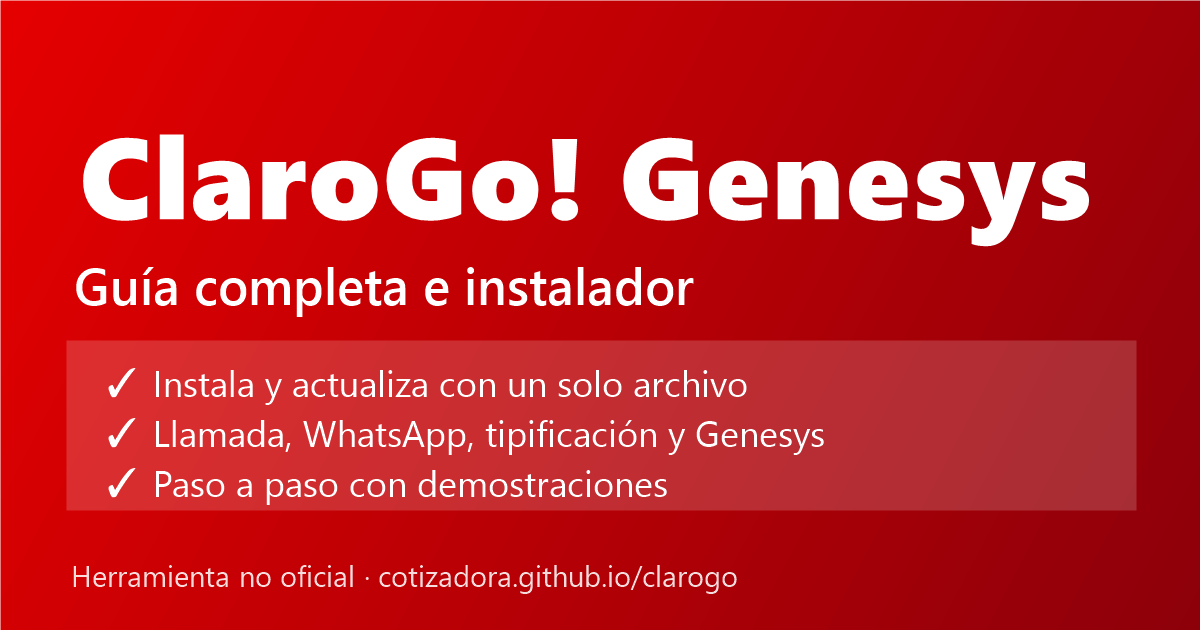
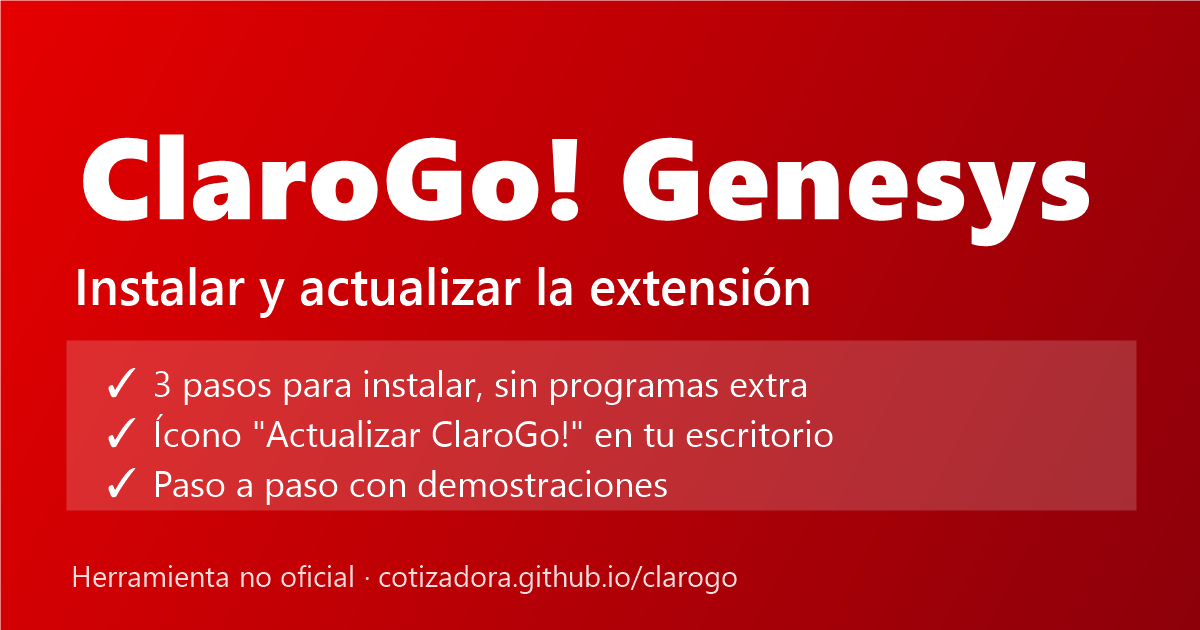
Guia solo de instalacion y actualizacion; instalador con acceso directo en el escritorio

Changed region(s): [[0.0617, 0.4222, 0.6783, 0.5127], [0.1233, 0.6635, 0.7092, 0.7238], [0.1233, 0.573, 0.6783, 0.6333]]

diff --git a/ext/guia.html b/ext/guia.html
@@ -4,10 +4,10 @@
 <meta charset="utf-8">
 <meta name="viewport" content="width=device-width, initial-scale=1">
 <title>Guía ClaroGo! Genesys</title>
-<meta name="description" content="Instala ClaroGo! Genesys con un solo archivo y aprende a usarla paso a paso: llamada, WhatsApp, tipificación y Genesys. Herramienta no oficial.">
+<meta name="description" content="Instala y actualiza la extensión ClaroGo! Genesys paso a paso. Herramienta no oficial.">
 <meta property="og:type" content="website">
-<meta property="og:title" content="ClaroGo! Genesys · Guía completa e instalador">
-<meta property="og:description" content="Descarga el instalador, sigue 3 pasos y aprende a usar la extensión con demostraciones. Herramienta no oficial.">
+<meta property="og:title" content="ClaroGo! Genesys · Instalar y actualizar">
+<meta property="og:description" content="3 pasos para instalar y un doble clic para actualizar. Herramienta no oficial.">
 <meta property="og:image" content="https://cotizadora.github.io/clarogo/ext/guia-preview.png">
 <meta property="og:image:width" content="1200">
 <meta property="og:image:height" content="630">
@@ -174,43 +174,55 @@
 
 <header class="hero">
   <h1>ClaroGo! Genesys</h1>
-  <p>La extensión que toma los datos de la llamada, los manda a tu planilla, abre WhatsApp con la oferta y tipifica la no venta en el formulario y en Genesys. Todo en un par de clics.</p>
+  <p>Instala la extensión en 5 minutos. Sigue los pasos con calma: no necesitas saber de computación.</p>
   <span class="ver" id="version">Versión al día</span>
   <div class="cta">
-    <a class="btn btn-blanco" href="#instalar">⬇ Instalar en 3 pasos</a>
-    <button class="btn btn-borde" type="button" data-copiar="cmd-inst">📋 Copiar comando de instalación</button>
+    <a class="btn btn-blanco" href="#instalar">⬇ Instalar</a>
+    <a class="btn btn-borde" href="#actualizar">🔄 Actualizar</a>
   </div>
-  <p class="nota-hero">Gratis · sin tiendas · se actualiza con el mismo archivo · Herramienta no oficial, hecha por Eduardo Pérez</p>
+  <p class="nota-hero">Gratis · no instala programas · Herramienta no oficial, hecha por Eduardo Pérez</p>
 </header>
-
-<nav class="indice"><div>
-  <a href="#instalar">1. Instalar</a><a href="#actualizar">2. Actualizar</a><a href="#usar">3. Usarla</a><a href="#funciones">4. Funciones</a><a href="#problemas">5. Problemas</a><a href="#claude">6. Claude Code</a>
-</div></nav>
 
 <main>
 
   <section id="instalar">
-    <h2><span class="ico">⬇</span>1. Instalar en 3 pasos</h2>
-    <p class="sub">Solo la primera vez. No necesitas descargar archivos, descomprimir nada ni instalar otros programas.</p>
-    <div class="copiar"><code id="cmd-inst">$d=&quot;$env:USERPROFILE\Documents\ClaroGo\extension&quot;; $b=&quot;https://cotizadora.github.io/clarogo&quot;; New-Item -ItemType Directory -Force $d | Out-Null; $l = (Invoke-RestMethod &quot;$b/ext/extension-archivos.txt?v=$(Get-Random)&quot;) -split &#39;\r?\n&#39; | Where-Object { $_ }; foreach ($f in $l) { Invoke-WebRequest &quot;$b/extension/$($f)?v=$(Get-Random)&quot; -OutFile &quot;$d\$f&quot; -UseBasicParsing }; Set-Clipboard $d; Write-Host &quot;ClaroGo!: $($l.Count) archivos listos en $d (ruta copiada)&quot; -ForegroundColor Green; Start-Process msedge edge://extensions</code><button type="button" data-copiar="cmd-inst">Copiar</button></div>
-    <div class="pasos3">
-      <div class="paso"><span class="n">1</span><b>Pega el comando en la Terminal</b><p>Copia el comando de arriba. Haz <b>clic derecho en el botón Inicio</b> de Windows, elige <b>Terminal</b> (o Windows PowerShell), pégalo con <kbd>Ctrl</kbd>+<kbd>V</kbd> y presiona <kbd>Enter</kbd>. Crea <code>Documentos\ClaroGo\extension</code> y baja todos los archivos.</p></div>
-      <div class="paso"><span class="n">2</span><b>Activa el modo para desarrolladores</b><p>Se abre <b>edge://extensions</b>. Activa <b>"Modo para desarrolladores"</b>, abajo a la izquierda.</p></div>
-      <div class="paso"><span class="n">3</span><b>Carga la carpeta</b><p>Presiona <b>"Cargar desempaquetada"</b>, pega la ruta con <kbd>Ctrl</kbd>+<kbd>V</kbd> (el instalador ya la copió) y elige <b>Seleccionar carpeta</b>.</p></div>
-    </div>
+    <h2><span class="ico">⬇</span>Instalar (solo la primera vez)</h2>
+    <p class="sub">Son 3 pasos. Hazlos en el computador donde usas Genesys.</p>
+
+    <h3>Paso 1 · Copia esta línea</h3>
+    <div class="copiar"><code id="cmd-inst">irm https://cotizadora.github.io/clarogo/ext/instalar.ps1 | iex</code><button type="button" data-copiar="cmd-inst">📋 Copiar</button></div>
+
+    <h3>Paso 2 · Pégala en la Terminal</h3>
+    <ol>
+      <li>Haz <b>clic derecho</b> en el botón <b>Inicio</b> de Windows (el logo de abajo a la izquierda).</li>
+      <li>Elige <b>Terminal</b> (en algunos equipos dice <b>Windows PowerShell</b>).</li>
+      <li>En la ventana negra, pega con <kbd>Ctrl</kbd> + <kbd>V</kbd> y presiona <kbd>Enter</kbd>.</li>
+      <li>Espera a que diga <b>LISTO</b>. Se abre sola la página de extensiones de Edge.</li>
+    </ol>
+
+    <h3>Paso 3 · Activa la extensión en Edge</h3>
+    <ol>
+      <li>Abajo a la izquierda, activa <b>"Modo para desarrolladores"</b>.</li>
+      <li>Arriba, presiona <b>"Cargar desempaquetada"</b>.</li>
+      <li>En la ventana que se abre, presiona <kbd>Ctrl</kbd> + <kbd>V</kbd> (la ruta ya está copiada), luego <kbd>Enter</kbd> y <b>"Seleccionar carpeta"</b>.</li>
+      <li>Haz clic en la pieza de rompecabezas de Edge y presiona el alfiler junto a <b>ClaroGo! Genesys</b> para dejar el ícono rojo a la vista.</li>
+    </ol>
 
     <div class="demo" data-demo>
       <div class="demo-pantalla">
-        <div class="escena" data-txt="Paso 1: pega el comando en la Terminal y presiona Enter">
-          <div class="cmd"><div class="tit">Terminal · Windows PowerShell</div><pre class="escribe"><span>PS C:\Users\tu-usuario&gt; $d="$env:USERPROFILE\Documents\ClaroGo\extension"; $b=...
-</span><span style="animation-delay:.8s">  (descargando los archivos de la extensión...)
-</span><span class="ok" style="animation-delay:2s">ClaroGo!: 11 archivos listos en C:\Users\tu-usuario\Documents\ClaroGo\extension (ruta copiada)
-</span><span class="t" style="animation-delay:2.6s">  Se abre edge://extensions</span></pre></div>
+        <div class="escena" data-txt="Paso 2: pega la línea en la Terminal y presiona Enter">
+          <div class="cmd"><div class="tit">Terminal · Windows PowerShell</div><pre class="escribe"><span>PS C:\Users\tu-usuario&gt; irm https://cotizadora.github.io/clarogo/ext/instalar.ps1 | iex
+</span><span style="animation-delay:.7s">  Se creo el acceso directo "Actualizar ClaroGo!" en tu escritorio.
+  Descargando la version mas nueva...
+</span><span class="ok" style="animation-delay:1.4s">   OK  manifest.json
+   OK  popup.html
+   OK  popup.js
+</span><span class="t" style="animation-delay:2.2s">  LISTO: version descargada.</span></pre></div>
         </div>
-        <div class="escena" data-txt="Paso 2: en edge://extensions activa Modo para desarrolladores">
+        <div class="escena" data-txt="Paso 3: activa Modo para desarrolladores">
           <div class="edge"><div class="url"><span>edge://extensions</span></div><div class="cuerpo">
             <div class="lado">Extensiones<br><br>Extensiones instaladas<br>Mantener a salvo<div class="dev"><span class="sw prende brilla"></span> Modo para desarrolladores</div></div>
-            <div class="der"><div class="barra-dev" style="opacity:.35"><span>Cargar desempaquetada</span><span>Empaquetar</span><span>Actualizar</span></div><p style="color:#666">Aparecen los botones de desarrollador arriba.</p></div>
+            <div class="der"><div class="barra-dev" style="opacity:.35"><span>Cargar desempaquetada</span><span>Empaquetar</span><span>Actualizar</span></div><p style="color:#666">Aparecen botones nuevos arriba.</p></div>
           </div></div>
         </div>
         <div class="escena" data-txt="Paso 3: Cargar desempaquetada, Ctrl+V y Seleccionar carpeta">
@@ -220,156 +232,55 @@
           </div>
           <div class="dialogo"><b>Seleccionar carpeta</b><div class="ruta">C:\Users\tu-usuario\Documents\ClaroGo\extension</div><div class="acc"><span>Seleccionar carpeta</span></div></div></div>
         </div>
-        <div class="escena" data-txt="¡Listo! Fija el ícono rojo en la barra para tenerlo a mano">
+        <div class="escena" data-txt="¡Listo! La extensión aparece en la lista">
           <div class="edge"><div class="url"><span>edge://extensions</span></div><div class="cuerpo"><div class="lado">Extensiones<div class="dev"><span class="sw" style="background:#0f6cbd"></span> Modo para desarrolladores</div></div>
-            <div class="der"><div class="tarjeta-ext"><div class="logo">G!</div><div><b>ClaroGo! Genesys</b> <small class="vtxt">1.24.0</small><br><small>Lee los datos del cliente en la llamada de Genesys…</small></div><div class="pie"><span>Detalles · Quitar</span><span class="sw" style="background:#0f6cbd"></span></div></div>
-            <p style="margin-top:12px">📌 Haz clic en el ícono de piezas de rompecabezas de Edge y fija <b>ClaroGo! Genesys</b>.</p></div></div></div>
+            <div class="der"><div class="tarjeta-ext"><div class="logo">G!</div><div><b>ClaroGo! Genesys</b> <small class="vtxt"></small><br><small>Lee los datos del cliente en la llamada de Genesys…</small></div><div class="pie"><span>Detalles · Quitar</span><span class="sw" style="background:#0f6cbd"></span></div></div>
+            <p style="margin-top:12px">📌 Fija el ícono rojo con la pieza de rompecabezas de Edge.</p></div></div></div>
         </div>
       </div>
       <div class="demo-barra"><button type="button" aria-label="Pausar o reproducir">❚❚</button><span class="txt"></span><span class="prog"><i></i></span></div>
     </div>
-    <p class="ojo">🛡 El comando solo descarga los archivos de la extensión desde <code>cotizadora.github.io/clarogo</code> a tu carpeta Documentos. Como no se descarga ningún programa, el "Control Inteligente de Aplicaciones" de Windows no lo bloquea. <br>Si tu Windows no tiene ese control, también puedes usar el <a href="instalar-clarogo.bat" download>instalador .bat</a> con doble clic.</p>
-    <p class="tip">💡 Abre <a href="https://cotizadora.github.io/clarogo/">ClaroGo!</a> una vez y completa <b>"Mi mensaje"</b> con tu nombre y teléfono: la extensión los usa en los mensajes de WhatsApp.</p>
+    <p class="tip">💡 Al terminar queda en tu escritorio un ícono llamado <b>"Actualizar ClaroGo!"</b>. Lo usarás para las actualizaciones.</p>
   </section>
 
   <section id="actualizar">
-    <h2><span class="ico">🔄</span>2. Actualizar</h2>
-    <p class="sub">Cuando avisen que hay versión nueva: pega otra vez el mismo comando en la Terminal y recarga la extensión. Nada más.</p>
+    <h2><span class="ico">🔄</span>Actualizar (cuando avisen que hay versión nueva)</h2>
+    <p class="sub">Dos clics y listo. Tus datos y configuraciones no se pierden.</p>
+    <div class="pasos3">
+      <div class="paso"><span class="n">1</span><b>Doble clic en "Actualizar ClaroGo!"</b><p>Está en tu escritorio. Se abre una ventana que descarga lo nuevo y dice <b>LISTO</b>.</p></div>
+      <div class="paso"><span class="n">2</span><b>Presiona "Volver a cargar"</b><p>En la página de extensiones que se abre, busca ClaroGo! Genesys y presiona la <b>flecha circular</b>.</p></div>
+    </div>
     <div class="demo" data-demo>
       <div class="demo-pantalla">
-        <div class="escena" data-txt="Pega otra vez el comando: reemplaza los archivos en la misma carpeta">
-          <div class="cmd"><div class="tit">Terminal · Windows PowerShell</div><pre class="escribe"><span>PS C:\Users\tu-usuario&gt; (el mismo comando de instalación)
-</span><span class="ok" style="animation-delay:1.2s">ClaroGo!: 11 archivos listos en C:\Users\tu-usuario\Documents\ClaroGo\extension (ruta copiada)</span></pre></div>
+        <div class="escena" data-txt="Doble clic en el ícono Actualizar ClaroGo! del escritorio">
+          <div class="cmd"><div class="tit">ClaroGo! Genesys - actualizar</div><pre class="escribe"><span>  ClaroGo! Genesys
+
+  Descargando la version mas nueva...
+</span><span class="ok" style="animation-delay:.8s">   OK  formas.js
+   OK  popup.js
+</span><span class="t" style="animation-delay:1.6s">  LISTO: version nueva descargada.</span></pre></div>
         </div>
-        <div class="escena" data-txt="En edge://extensions presiona Volver a cargar (flecha circular)">
+        <div class="escena" data-txt="Presiona Volver a cargar (flecha circular)">
           <div class="edge"><div class="url"><span>edge://extensions</span></div><div class="cuerpo"><div class="lado">Extensiones</div>
             <div class="der"><div class="tarjeta-ext"><div class="logo">G!</div><div><b>ClaroGo! Genesys</b> <small>versión nueva</small><br><small>Lee los datos del cliente en la llamada…</small></div><div class="pie"><span>Detalles · Quitar · <span class="recarga brilla gira">⟳</span></span><span class="sw" style="background:#0f6cbd"></span></div></div></div></div></div>
         </div>
       </div>
       <div class="demo-barra"><button type="button" aria-label="Pausar o reproducir">❚❚</button><span class="txt"></span><span class="prog"><i></i></span></div>
     </div>
-    <p class="tip">💡 La carpeta siempre es la misma, por eso no hay que volver a cargarla: basta con "Volver a cargar". Si usas Claude Code, pídele "Actualiza la extensión ClaroGo!" y lo hace por ti.</p>
-  </section>
-
-  <section id="usar">
-    <h2><span class="ico">📞</span>3. Usarla en una llamada</h2>
-    <p class="sub">Mira la demostración: la ventana tiene dos lados. A la izquierda la llamada y la oferta; a la derecha la tipificación.</p>
-    <div class="demo" data-demo>
-      <div class="demo-pantalla" style="min-height:500px">
-        <div class="escena" data-txt="Con la llamada en Genesys presiona Alt + Shift + G (o el ícono rojo)" data-z="z-datos" data-g="Los datos de la llamada aparecen solos y quedan copiados" data-gx="6%" data-gy="88%"></div>
-        <div class="escena" data-txt="Pregunta el RUT al cliente y escríbelo. Si quieres, deja un comentario" data-z="z-rut" data-g="El RUT llega a tu planilla con puntos y guion" data-gx="6%" data-gy="88%"></div>
-        <div class="escena" data-txt="Enviar a Mi Planilla: el cliente queda como fila nueva" data-z="z-env" data-g="Si ya lo llamaste antes, aparece 🔁 con la tipificación anterior" data-gx="6%" data-gy="88%"></div>
-        <div class="escena" data-txt="WhatsApp con la oferta: elige el plan y abre el chat con la lámina" data-z="z-wa" data-g="El mensaje queda escrito. Tú presionas enviar en WhatsApp" data-gx="6%" data-gy="88%"></div>
-        <div class="escena" data-txt="Si no compra: toca el motivo de no venta (por colores)" data-z="z-mot" data-g="Rojo rechazo, naranjo requisitos, gris llamada, verde seguimiento" data-gx="52%" data-gy="88%"></div>
-        <div class="escena" data-txt="Revisa el código de Genesys sugerido (lo puedes cambiar)" data-z="z-gc" data-g="Se marca en Genesys sin enviarse: lo envías tú" data-gx="52%" data-gy="88%"></div>
-        <div class="escena" data-txt="Presiona Tipificar en formulario: se llena, se envía y listo" data-z="z-tip" data-g="Con Enviar automáticamente marcado, no tienes que hacer nada más" data-gx="52%" data-gy="88%"></div>
-        <div class="escena" data-txt="Aparece la confirmación al centro y se va sola" data-fin="1"></div>
-        <!-- Ventana de la extensión (se comparte entre escenas) -->
-        <div class="pop" id="pop-demo" style="position:absolute;left:50%;top:14px;transform:translateX(-50%)">
-          <header><b>ClaroGo!</b><span>Genesys</span><span class="v vtxt">1.24.0</span><span style="margin-left:auto;font-size:10px;opacity:.85">No oficial</span></header>
-          <div class="cols">
-            <div>
-              <div class="z" id="z-datos"><div class="est">✓ Datos copiados.</div><div class="hist">🔁 Ya tipificado: Conforme con su compañía · 17-11</div>
-              <table><tr><td>Teléfono</td><td class="tel">9 1234 5678</td></tr><tr><td>Nombre</td><td>María González</td></tr><tr><td>Campaña</td><td>Portabilidad</td></tr><tr><td>Viene de</td><td>Wom</td></tr></table></div>
-              <div class="z" id="z-rut"><div class="inp lleno">12.345.678-5</div><div class="inp">Comentario para la planilla (opcional)</div></div>
-              <div class="z" id="z-env"><span class="b rojo">➕ Enviar a Mi Planilla (fila nueva)</span></div>
-              <div class="z wa" id="z-wa"><small>WhatsApp con la oferta</small><div class="sel">Plan 500</div><small>☑ Adjuntar la lámina del plan</small><span class="b verde">WhatsApp Web</span></div>
-            </div>
-            <div class="nv">
-              <div class="cab">No venta: motivo <span><i>Más usados</i><i>A-Z</i><i class="on">Por grupo</i></span></div>
-              <div class="z chips" id="z-mot"><span class="gt">Seguimiento</span><span class="c-seg">Se envía info por WhatsApp</span><span class="gt">Rechazo del cliente</span><span class="c-rech">Conforme con su compañía</span><span class="c-rech elegido">Paga menos en su compañía</span><span class="c-rech">Mala experiencia con Claro</span><span class="gt">Requisitos</span><span class="c-req">Portabilidad menos de 120 días</span><span class="c-req">No es titular</span><span class="c-req">Sin cobertura Claro</span><span class="gt">Llamada</span><span class="c-llam">Corte de llamado</span><span class="c-llam">Llamada muda</span><span class="c-otro">Otro (escribir)</span></div>
-              <div class="z gc" id="z-gc">Genesys: <span>Rechazo/Mejor oferta competencia $ precio</span></div>
-              <div class="ops"><span>Enviar automáticamente</span><span>Avisar cuando se envíe</span></div>
-              <div class="z" id="z-tip"><span class="b rojo">📝 Tipificar en formulario: Paga menos en su compañía</span></div>
-            </div>
-          </div>
-        </div>
-        <div class="globo" id="globo-demo"></div>
-        <div class="fondo-form" id="exito-demo" style="display:none"><div style="position:absolute;inset:0;display:flex;align-items:center;justify-content:center"><div class="exito"><div class="fr"></div><div class="cu"><div class="cara">😊</div><div class="t">¡Tipificado por ClaroGo! correctamente!</div><div class="d">Paga menos en su compañía · 912345678</div></div></div></div></div>
-      </div>
-      <div class="demo-barra"><button type="button" aria-label="Pausar o reproducir">❚❚</button><span class="txt"></span><span class="prog"><i></i></span></div>
-    </div>
-  </section>
-
-  <section id="funciones">
-    <h2><span class="ico">⭐</span>4. Todas las funciones</h2>
-    <p class="sub">Lo que hace la extensión por ti, en resumen.</p>
-    <div class="grid">
-      <div class="card"><div class="e">⌨</div><b>Atajo Alt + Shift + G</b><p>Abre la extensión y lee la llamada de Genesys, aunque estés en otra pestaña.</p></div>
-      <div class="card"><div class="e">📋</div><b>Datos a Mi Planilla</b><p>Teléfono, RUT, nombre, campaña, plan y comentario llegan como fila nueva en ClaroGo!.</p></div>
-      <div class="card"><div class="e">💬</div><b>WhatsApp con lámina</b><p>Abre el chat del cliente con tu mensaje, el plan y la imagen. Tú decides cuándo enviar.</p></div>
-      <div class="card"><div class="e">🎨</div><b>Motivos por colores</b><p>Ordénalos por grupo, A-Z o más usados. La lista aprende lo que más ocupas.</p></div>
-      <div class="card"><div class="e">📝</div><b>Formulario automático</b><p>El registro de no venta se llena con el teléfono y el motivo, avanza de hoja y se envía solo si lo eliges.</p></div>
-      <div class="card"><div class="e">🟧</div><b>Código en Genesys</b><p>Marca el código de conclusión sugerido en Genesys, sin enviarlo. Lo envías tú.</p></div>
-      <div class="card"><div class="e">😊</div><b>Confirmación</b><p>Al enviar aparece al centro "¡Tipificado por ClaroGo! correctamente!" y se va sola.</p></div>
-      <div class="card"><div class="e">⏱</div><b>Llamada cortada</b><p>Si se cortó, la extensión ofrece la llamada anterior por 15 minutos para que la tipifiques.</p></div>
-      <div class="card"><div class="e">🔁</div><b>Clientes repetidos</b><p>Te avisa si ese teléfono ya fue tipificado: cuándo y con qué motivo.</p></div>
-      <div class="card"><div class="e">💰</div><b>Revisar deuda</b><p>Desde Mi Planilla abre el portal de pago de la compañía y escribe el RUT por ti.</p></div>
-      <div class="card"><div class="e">📤</div><b>Formulario de ventas</b><p>Desde la ficha del cliente, el formulario de ventas se abre lleno y te muestra lo escrito.</p></div>
-      <div class="card"><div class="e">🔒</div><b>Tus datos en tu equipo</b><p>No hay servidores propios: la información queda en tu navegador.</p></div>
-    </div>
+    <p class="tip">💡 ¿Borraste el ícono del escritorio? Repite el Paso 1 y el Paso 2 de la instalación: vuelve a crearlo y actualiza.</p>
   </section>
 
   <section id="problemas">
-    <h2><span class="ico">🧰</span>5. Si algo no funciona</h2>
-    <details><summary>Windows dice "Control Inteligente de Aplicaciones ha bloqueado un archivo"</summary><p>Es una protección de Windows 11 contra archivos descargados, como el instalador .bat. No la desactives: usa el comando de instalación de la sección 1, que no descarga programas y no se bloquea.</p></details>
-    <details><summary>No aparece el ícono de ClaroGo! en la barra</summary><p>Haz clic en el ícono de piezas de rompecabezas de Edge y presiona el alfiler junto a ClaroGo! Genesys.</p></details>
-    <details><summary>Dice "No encontré datos del cliente"</summary><p>Abre la llamada en Genesys con el panel "Interacción de llamada" visible y vuelve a presionar <kbd>Alt</kbd>+<kbd>Shift</kbd>+<kbd>G</kbd>.</p></details>
-    <details><summary>El formulario no avanza o no se llena</summary><p>Mira el sello negro abajo a la izquierda del formulario: dice la versión y qué está haciendo. Si no aparece, abre edge://extensions y presiona "Volver a cargar". Siempre abre el registro desde la extensión, no desde un marcador.</p></details>
-    <details><summary>No marcó el código en Genesys</summary><p>Deja abierto en Genesys el recuadro "Códigos de conclusión" antes de presionar "Tipificar en formulario". Si igual no lo marca, te llega un aviso para hacerlo a mano.</p></details>
-    <details><summary>No veo los avisos</summary><p>Revisa que Windows no tenga silenciadas las notificaciones de Edge en Configuración, Sistema, Notificaciones.</p></details>
-    <details><summary>¿Cómo sé qué versión tengo?</summary><p>Está arriba en la ventana de la extensión y en edge://extensions. La versión más nueva aparece al comienzo de esta guía.</p></details>
-  </section>
-
-  <section id="claude">
-    <h2><span class="ico">✳</span>6. Claude Code</h2>
-    <p class="sub">Claude Code es un asistente de inteligencia artificial que trabaja en tu computador: lee archivos, ejecuta comandos y hace tareas que le pides en español, como si conversaras. Con él se construyó ClaroGo!. Es opcional: la extensión funciona sin él.</p>
-
-    <h3>¿Dónde está?</h3>
-    <ul>
-      <li>En la aplicación de escritorio <b>Claude</b> (Windows o Mac), en la pestaña <b>Code</b>. También existe en la terminal y en la web.</li>
-      <li>Necesita una cuenta de Claude con un plan que incluya Claude Code.</li>
-    </ul>
-
-    <h3>¿Cómo se usa?</h3>
-    <ol>
-      <li>Abre una sesión nueva y elige la carpeta donde quieres trabajar (por ejemplo <code>Documentos\ClaroGo</code>).</li>
-      <li>Escribe lo que necesitas con tus palabras. Ejemplo: <i>"Actualiza la extensión ClaroGo! con el instalador"</i>.</li>
-      <li>Antes de ejecutar algo en tu equipo, Claude te pide permiso. Lee qué va a hacer y acepta solo si estás de acuerdo.</li>
-      <li>Al terminar te resume lo que hizo. Si algo no quedó como querías, díselo y lo corrige.</li>
-    </ol>
-
-    <div class="demo" data-demo>
-      <div class="demo-pantalla" style="min-height:300px">
-        <div class="escena" data-txt="Pídele en español lo que necesitas">
-          <div class="chat"><div class="tit">Claude · Code</div><div class="msgs">
-            <div class="yo">Actualiza la extensión ClaroGo! con el instalador</div>
-            <div class="cl">Voy a descargar los archivos de la extensión desde cotizadora.github.io a Documentos\ClaroGo\extension. ¿Te parece?</div>
-            <div class="yo">Sí, dale</div>
-            <div class="cl">✅ Listo: 11 archivos al día. Ahora presiona <b>Volver a cargar</b> en edge://extensions.</div>
-          </div></div>
-        </div>
-      </div>
-      <div class="demo-barra"><button type="button" aria-label="Pausar o reproducir">❚❚</button><span class="txt"></span><span class="prog"><i></i></span></div>
-    </div>
-
-    <h3>Actualizar sin descargar nada a mano</h3>
-    <p>Pídele a Claude Code que ejecute este comando en PowerShell (o pégalo tú en la Terminal). Descarga los archivos más nuevos a la misma carpeta:</p>
-    <div class="copiar"><code id="cmd-act">$d=&quot;$env:USERPROFILE\Documents\ClaroGo\extension&quot;; $b=&quot;https://cotizadora.github.io/clarogo&quot;; New-Item -ItemType Directory -Force $d | Out-Null; $l = (Invoke-RestMethod &quot;$b/ext/extension-archivos.txt?v=$(Get-Random)&quot;) -split &#39;\r?\n&#39; | Where-Object { $_ }; foreach ($f in $l) { Invoke-WebRequest &quot;$b/extension/$($f)?v=$(Get-Random)&quot; -OutFile &quot;$d\$f&quot; -UseBasicParsing }; Set-Clipboard $d; Write-Host &quot;ClaroGo!: $($l.Count) archivos listos en $d (ruta copiada)&quot; -ForegroundColor Green; Start-Process msedge edge://extensions</code><button type="button" data-copiar="cmd-act">Copiar</button></div>
-
-    <h3>Buenas prácticas</h3>
-    <ul>
-      <li>Nunca le des contraseñas, claves ni códigos de verificación. Claude no los necesita para estas tareas.</li>
-      <li>Revisa lo que te pide aprobar. Si no entiendes un paso, pregúntale qué hace antes de aceptar.</li>
-      <li>Pide resultados concretos: "deja el botón en verde", "que copie solo los equipos con más de 60 unidades".</li>
-      <li>Puede equivocarse: prueba lo que entrega antes de usarlo con clientes.</li>
-      <li>Para cambios a ClaroGo! o a la extensión, coordina con Eduardo: así todos usan la misma versión.</li>
-    </ul>
+    <h2><span class="ico">🧰</span>Si algo no funciona</h2>
+    <details><summary>No encuentro la Terminal</summary><p>Presiona la tecla <kbd>Windows</kbd>, escribe <b>PowerShell</b> y ábrelo. Funciona igual.</p></details>
+    <details><summary>La ventana dice "No se pudo descargar"</summary><p>Revisa tu conexión a internet y vuelve a intentarlo.</p></details>
+    <details><summary>No aparece el ícono rojo en Edge</summary><p>Haz clic en la pieza de rompecabezas de Edge, arriba a la derecha, y presiona el alfiler junto a ClaroGo! Genesys.</p></details>
+    <details><summary>Edge dice que la carpeta no tiene un manifiesto</summary><p>Elegiste otra carpeta. La correcta es <code>Documentos\ClaroGo\extension</code>. Vuelve a presionar "Cargar desempaquetada" y pega con <kbd>Ctrl</kbd>+<kbd>V</kbd>.</p></details>
+    <details><summary>¿Cómo sé qué versión tengo?</summary><p>Aparece arriba en la ventana de la extensión. La más nueva está al comienzo de esta página.</p></details>
   </section>
 </main>
 
-<footer>ClaroGo! es una herramienta no oficial, no pertenece a Claro Chile ni a Genesys. Hecha por Eduardo Pérez. Confirma con tu supervisión que puedes usarla antes de trabajar con datos de clientes.</footer>
-
+<footer>ClaroGo! es una herramienta no oficial, no pertenece a Claro Chile ni a Genesys. Hecha por Eduardo Pérez. Confirma con tu supervisión que puedes usarla.</footer>
 <script>
 // Versión más nueva de la extensión, leída del propio repositorio
 fetch('../extension/manifest.json', { cache: 'no-store' }).then(r => r.json()).then(m => {

diff --git a/README.md b/README.md
@@ -68,6 +68,11 @@ Opción con Tampermonkey:
 
 ## Historial de cambios
 
+### 18-11-2026: guía solo de instalación y actualización
+
+- ext/instalar.ps1 (se usa con `irm https://cotizadora.github.io/clarogo/ext/instalar.ps1 | iex`): crea Documentos\ClaroGo\extension, baja los archivos, deja Documentos\ClaroGo\actualizar.ps1 y el acceso directo "Actualizar ClaroGo!" en el escritorio, copia la ruta y abre edge://extensions.
+- La guía queda solo con instalar, actualizar y problemas frecuentes, para ejecutivos sin conocimientos técnicos.
+
 ### 18-11-2026: instalación por comando (sin .bat)
 
 - El Control Inteligente de Aplicaciones de Windows 11 bloquea el .bat descargado. La guía ahora usa un comando de PowerShell que se copia y se pega en la Terminal: descarga los archivos de la lista a Documentos\ClaroGo\extension, copia la ruta y abre edge://extensions. El .bat queda como alternativa para equipos sin ese control.
